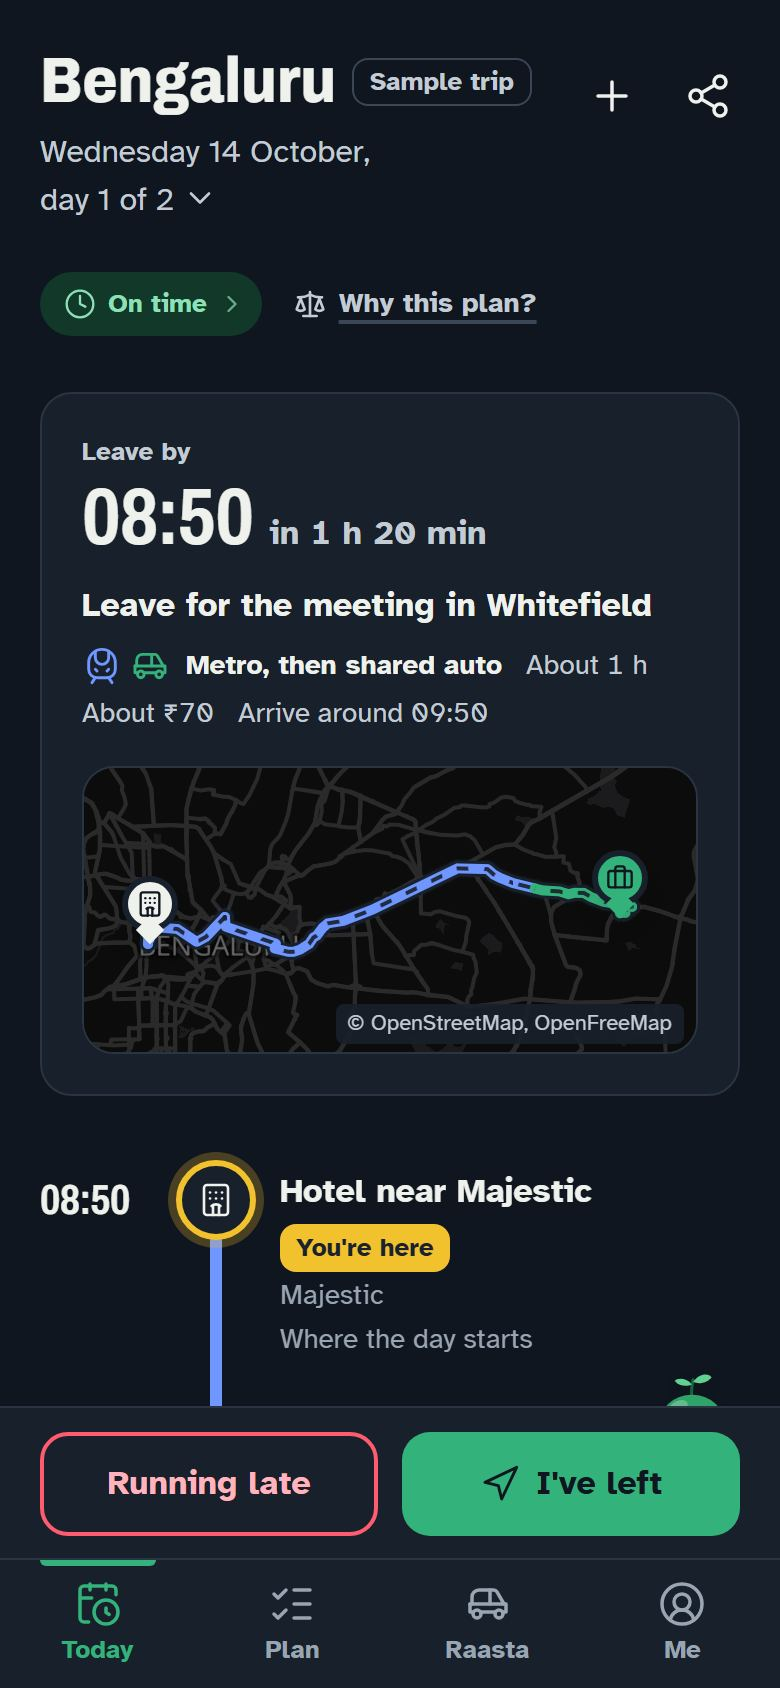
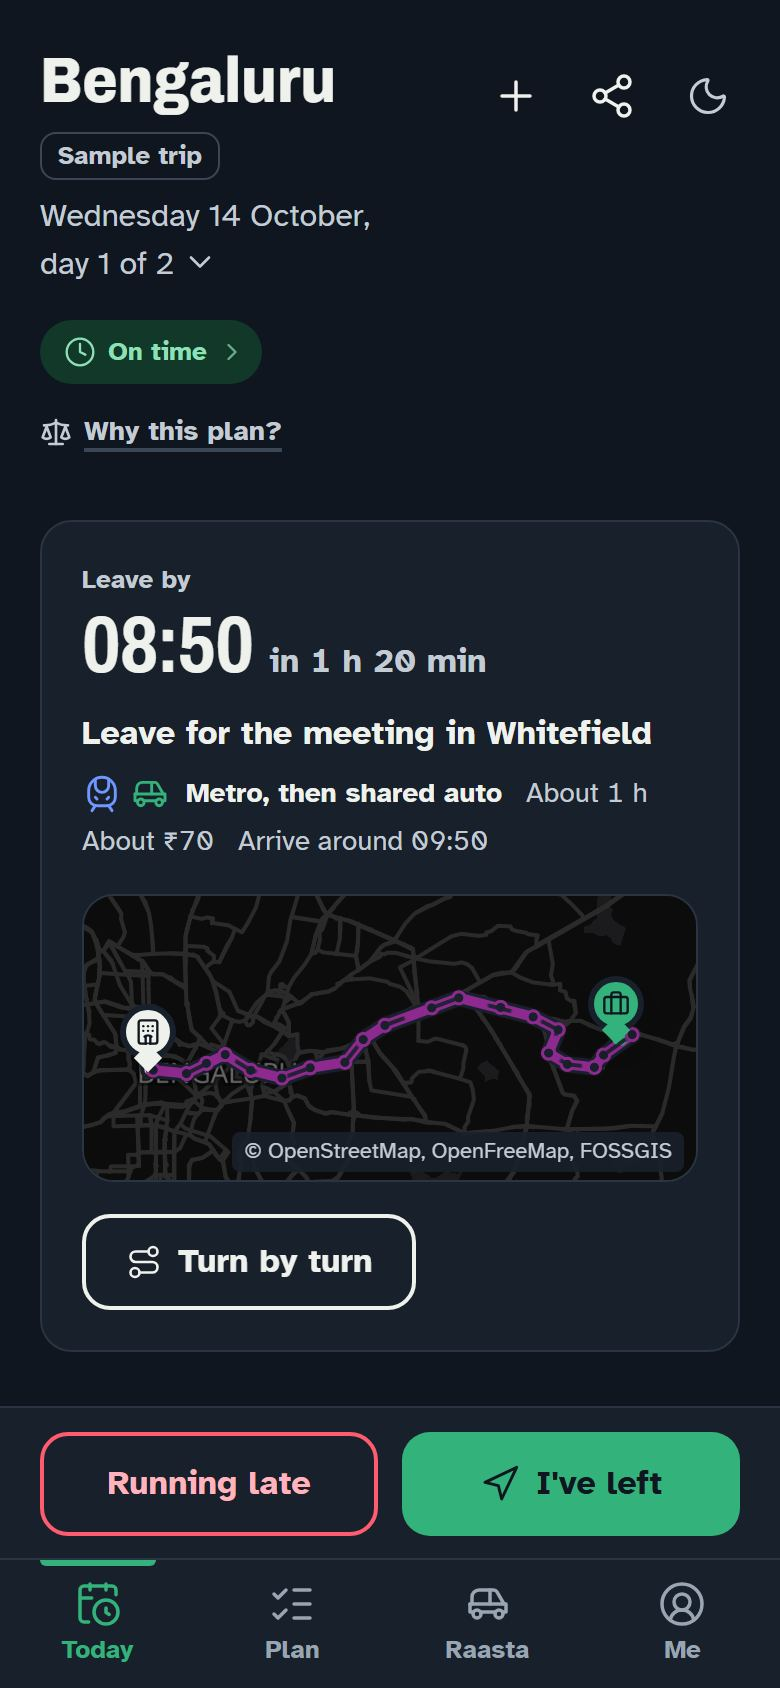
feat: Rico is the 3D one everywhere, never flat
- The Ask Rico button and the "Welcome back!" greeting now show the live 3D Rico, like the chat, Today and the welcome screen.
- Beside each of Rico's lines in the chat, and wherever the live Rico isn't drawn (reduced motion, Save-Data, a slow GPU, or while it loads), a still of the same 3D Rico stands in.
- The 3D engine draws the stills itself (frontend/roo3d/stills.mjs): nine moods at 192 and 640 pixels, placed exactly where the live Rico stands.
- The flat SVG Rico is deleted, with its colour tokens and the SVG mouth path, so nothing falls back to it.
- The sign-in page's Today screenshots are taken again: no flat Rico, and real roads.
- A browser test checks every Rico is live or a still, on phone and desktop. Docs, decisions and known limits are updated.

diff --git a/frontend/src/components/AppShell.tsx b/frontend/src/components/AppShell.tsx
@@ -1,10 +1,10 @@
 import * as Tooltip from '@radix-ui/react-tooltip'
 import { CalendarClock, CircleUserRound, ListChecks } from 'lucide-react'
-import { motion, MotionConfig } from 'motion/react'
+import { motion, MotionConfig, useReducedMotion } from 'motion/react'
 import { lazy, Suspense, useEffect, useRef, useState, type ReactNode } from 'react'
 import { Navigate, NavLink, Outlet, ScrollRestoration, useLocation, useMatches } from 'react-router'
 import { AutoRickshaw, RouteMark } from '@/components/icons'
-import { RooArt } from '@/components/roo/RooArt'
+import { RooAvatar } from '@/components/roo3d/RooAvatar'
 import { ThemeToggle } from '@/components/ThemeToggle'
 import { TodaySkeleton } from '@/components/TodaySkeleton'
 import { Toaster } from '@/components/ui/Toaster'
@@ -153,6 +153,7 @@ function TopBar({ demo }: { demo?: ReactNode }) {
 /** On a desktop, Roo is a click away from every screen. */
 function AskRoo() {
   const open = useStore((s) => s.rooChat)
+  const reduce = !!useReducedMotion()
   return (
     <button
       type="button"
@@ -162,7 +163,7 @@ function AskRoo() {
       className={`flex min-h-12 shrink-0 items-center gap-2 rounded-full border pl-1.5 pr-4 t-title transition-colors duration-[var(--dur-quick)] ${open ? 'border-green bg-green-tint text-ink' : 'border-line text-ink [@media(hover:hover)]:hover:bg-sunken'}`}
     >
       <span className="flex size-9 items-end justify-center" aria-hidden="true">
-        <RooArt mood="happy" size={30} reduce />
+        <RooAvatar mood="happy" size={30} reduce={reduce} quiet />
       </span>
       Ask Rico
     </button>

diff --git a/frontend/src/components/AuthCard.tsx b/frontend/src/components/AuthCard.tsx
@@ -3,7 +3,7 @@ import { AnimatePresence, motion, useReducedMotion } from 'motion/react'
 import { useState, type FormEvent } from 'react'
 import { ApiError } from '@/api/client'
 import { useAuthOptions } from '@/api/queries'
-import { RooArt } from '@/components/roo/RooArt'
+import { RooAvatar } from '@/components/roo3d/RooAvatar'
 import { Button } from '@/components/ui/Button'
 import { Segmented } from '@/components/ui/Choice'
 import { Field } from '@/components/ui/Field'
@@ -123,7 +123,7 @@ export function AuthCard({ onSignedIn, onLoading }: { onSignedIn: (how: 'created
               animate={{ transform: 'scale(1) translateY(0px)', opacity: 1 }}
               transition={{ type: 'spring', duration: 0.5, bounce: 0.35 }}
             >
-              <RooArt mood="wave" size={88} reduce={reduce} />
+              <RooAvatar mood="wave" size={88} reduce={reduce} />
             </motion.span>
             <p className="t-display-2 text-ink">{welcome ? `Hi, ${welcome}!` : 'Welcome back!'}</p>
           </motion.div>

diff --git a/frontend/vite.config.ts b/frontend/vite.config.ts
@@ -66,10 +66,11 @@ export default defineConfig(({ mode }) => ({
             options: { cacheName: 'maplibre', expiration: { maxEntries: 8 } },
           },
           {
-            // Roo in 3D: its rendered sheet, the first time a 3D Roo of that size appears.
+            // Roo in 3D: its rendered sheet, the first time a live Roo of that size appears, and its stills
+            // (three sheets, and nine moods at two sizes).
             urlPattern: ({ url }) => url.pathname.startsWith('/assets/roo-'),
             handler: 'CacheFirst',
-            options: { cacheName: 'roo', expiration: { maxEntries: 6 } },
+            options: { cacheName: 'roo', expiration: { maxEntries: 24 } },
           },
           {
             urlPattern: /^https:\/\/tiles\.openfreemap\.org\/.*/i,

diff --git a/frontend/src/styles/tokens.css b/frontend/src/styles/tokens.css
@@ -95,15 +95,6 @@
   }
 }
 
-/* Roo, the companion. Character art keeps its colours in both themes, so its eyes never vanish in dark mode. */
-:root {
-  --roo-body: #2fa36a;
-  --roo-deep: #11683f;
-  --roo-leaf: #62cf93;
-  --roo-ink: #142019;
-  --roo-blush: #ff8fa3;
-}
-
 /* Google sign-in button colours, per Google's branding guidelines. */
 :root {
   --google-bg: #ffffff;

diff --git a/docs/known-limits.md b/docs/known-limits.md
@@ -21,6 +21,7 @@ Honest gaps in this build. Each is a deliberate scope choice or waits on the tea
 
 - **The AI helper** ("Describe your day") is off by default, as the brief says; set `AI_HELPER_ENABLED=true` to turn it on. With `GEMINI_API_KEY` set (a free key from Google AI Studio) it asks Gemini to read the description. Without a key, or once the free tier's per-minute or daily quota is used up, it falls back to a pattern-based parser that handles common day descriptions. A fixed time it can't read as a real "HH:MM" is dropped, and the traveller sets it.
 - **Rico's agent** needs the AI helper and a Gemini key. Gemini's free tier allows only so many requests a minute and a day; `gemini-3.5-flash` allows just 20 a day, which is why Rico uses Flash-Lite. When a model's quota runs out, Rico rests it until Gemini says to try again and uses `GEMINI_MODEL`; when both are out, the phone answers by itself. The agent books cabs but not trains or flights: for those it opens the sheet. It changes only the trip on screen, or a new trip it starts on the same card.
+- **Rico moves only where it's drawn live.** With reduced motion, Save-Data or a GPU the browser calls slow, Rico is a still of the 3D Rico in its mood: it doesn't breathe, follow the pointer, or move its mouth as it speaks. Its stills are made once from the 3D engine (`frontend/roo3d/stills.mjs`), so after the Blender pieces are rendered again, run that too.
 - **Morning planning** plans a later trip day on its own from 06:00 local time (`MORNING_PLAN_FROM_MIN`), from the place of stay, but only for a trip the traveller has planned before and only for a day with tasks and no plan yet. It runs once per trip day; if it fails (for example when a fixed time can't be kept) it tries again after 30 minutes, and the traveller can always plan the day themselves, which shows the reason. The scheduler looks at trips running around the server's real date, so a trip on the demo clock is planned in the morning only when its dates are around today; the demo trip (October 2026 sample dates) is planned with "Plan my day" as before.
 - **Bookings are a demo.** Train tickets and cab rides are simulated: sample trains, invented drivers, nothing booked or charged. They exist while `SIMULATED_SERVICES` is on (the default; off in production: 404, and `features.bookings` is false), are paid from a wallet of simulated money, and keep passenger names and ages with the trip.
 - **Google sign-in and Calendar import** need `GOOGLE_CLIENT_ID` and `GOOGLE_CLIENT_SECRET`. Without them the web app hides both buttons and the demo login works.

diff --git a/docs/testing-guide.md b/docs/testing-guide.md
@@ -191,7 +191,7 @@ Each row says which account to use (**D** for demo, **R** for real, **Both**).
 | **Me**: Language हिन्दी, Theme Light/Dark/System | Both | The interface switches language and theme at once |
 | **The sun or moon button** (home page, Rico's welcome, the desktop top bar, Today's header on a phone) | Both | Light and dark swap with a short cross-fade; the choice stays after a reload, with no flash of the other theme |
 | **Me → Alerts**: sound, chime, Rico's voice, **Hear Rico**, volume, vibration, phone notifications | Both | **Hear Rico** speaks; notifications ask for permission once |
-| Rico in 3D: open /welcome or Ask Rico on a laptop or a recent phone | Both | A fuzzy plush 3D Rico breathes, blinks, follows the pointer and hops on each line. With reduced motion, Save-Data or a slow GPU, the flat Rico shows instead (force either with `localStorage['reroute.roo3d']` = `on` or `off`) |
+| Rico in 3D: open /welcome or Ask Rico on a laptop or a recent phone | Both | A fuzzy plush 3D Rico breathes, blinks, follows the pointer and hops on each line; the Ask Rico button and the "Welcome back!" greeting show the same Rico. Beside each of Rico's lines in the chat, and everywhere with reduced motion, Save-Data or a slow GPU, a still of the same 3D Rico shows instead, never a flat one (force either with `localStorage['reroute.roo3d']` = `on` or `off`) |
 | Turn on **Rico reads its replies aloud** (Me) and open /welcome | Both | Each line plays to its end before the next; the words appear as they're said; Rico's mouth closes on b, m and p and between words |
 | **Me → Reroute log** | Both | Every plan and change with its reason |
 | **Me → Delete my location history** | Both | Confirms, then deletes |
